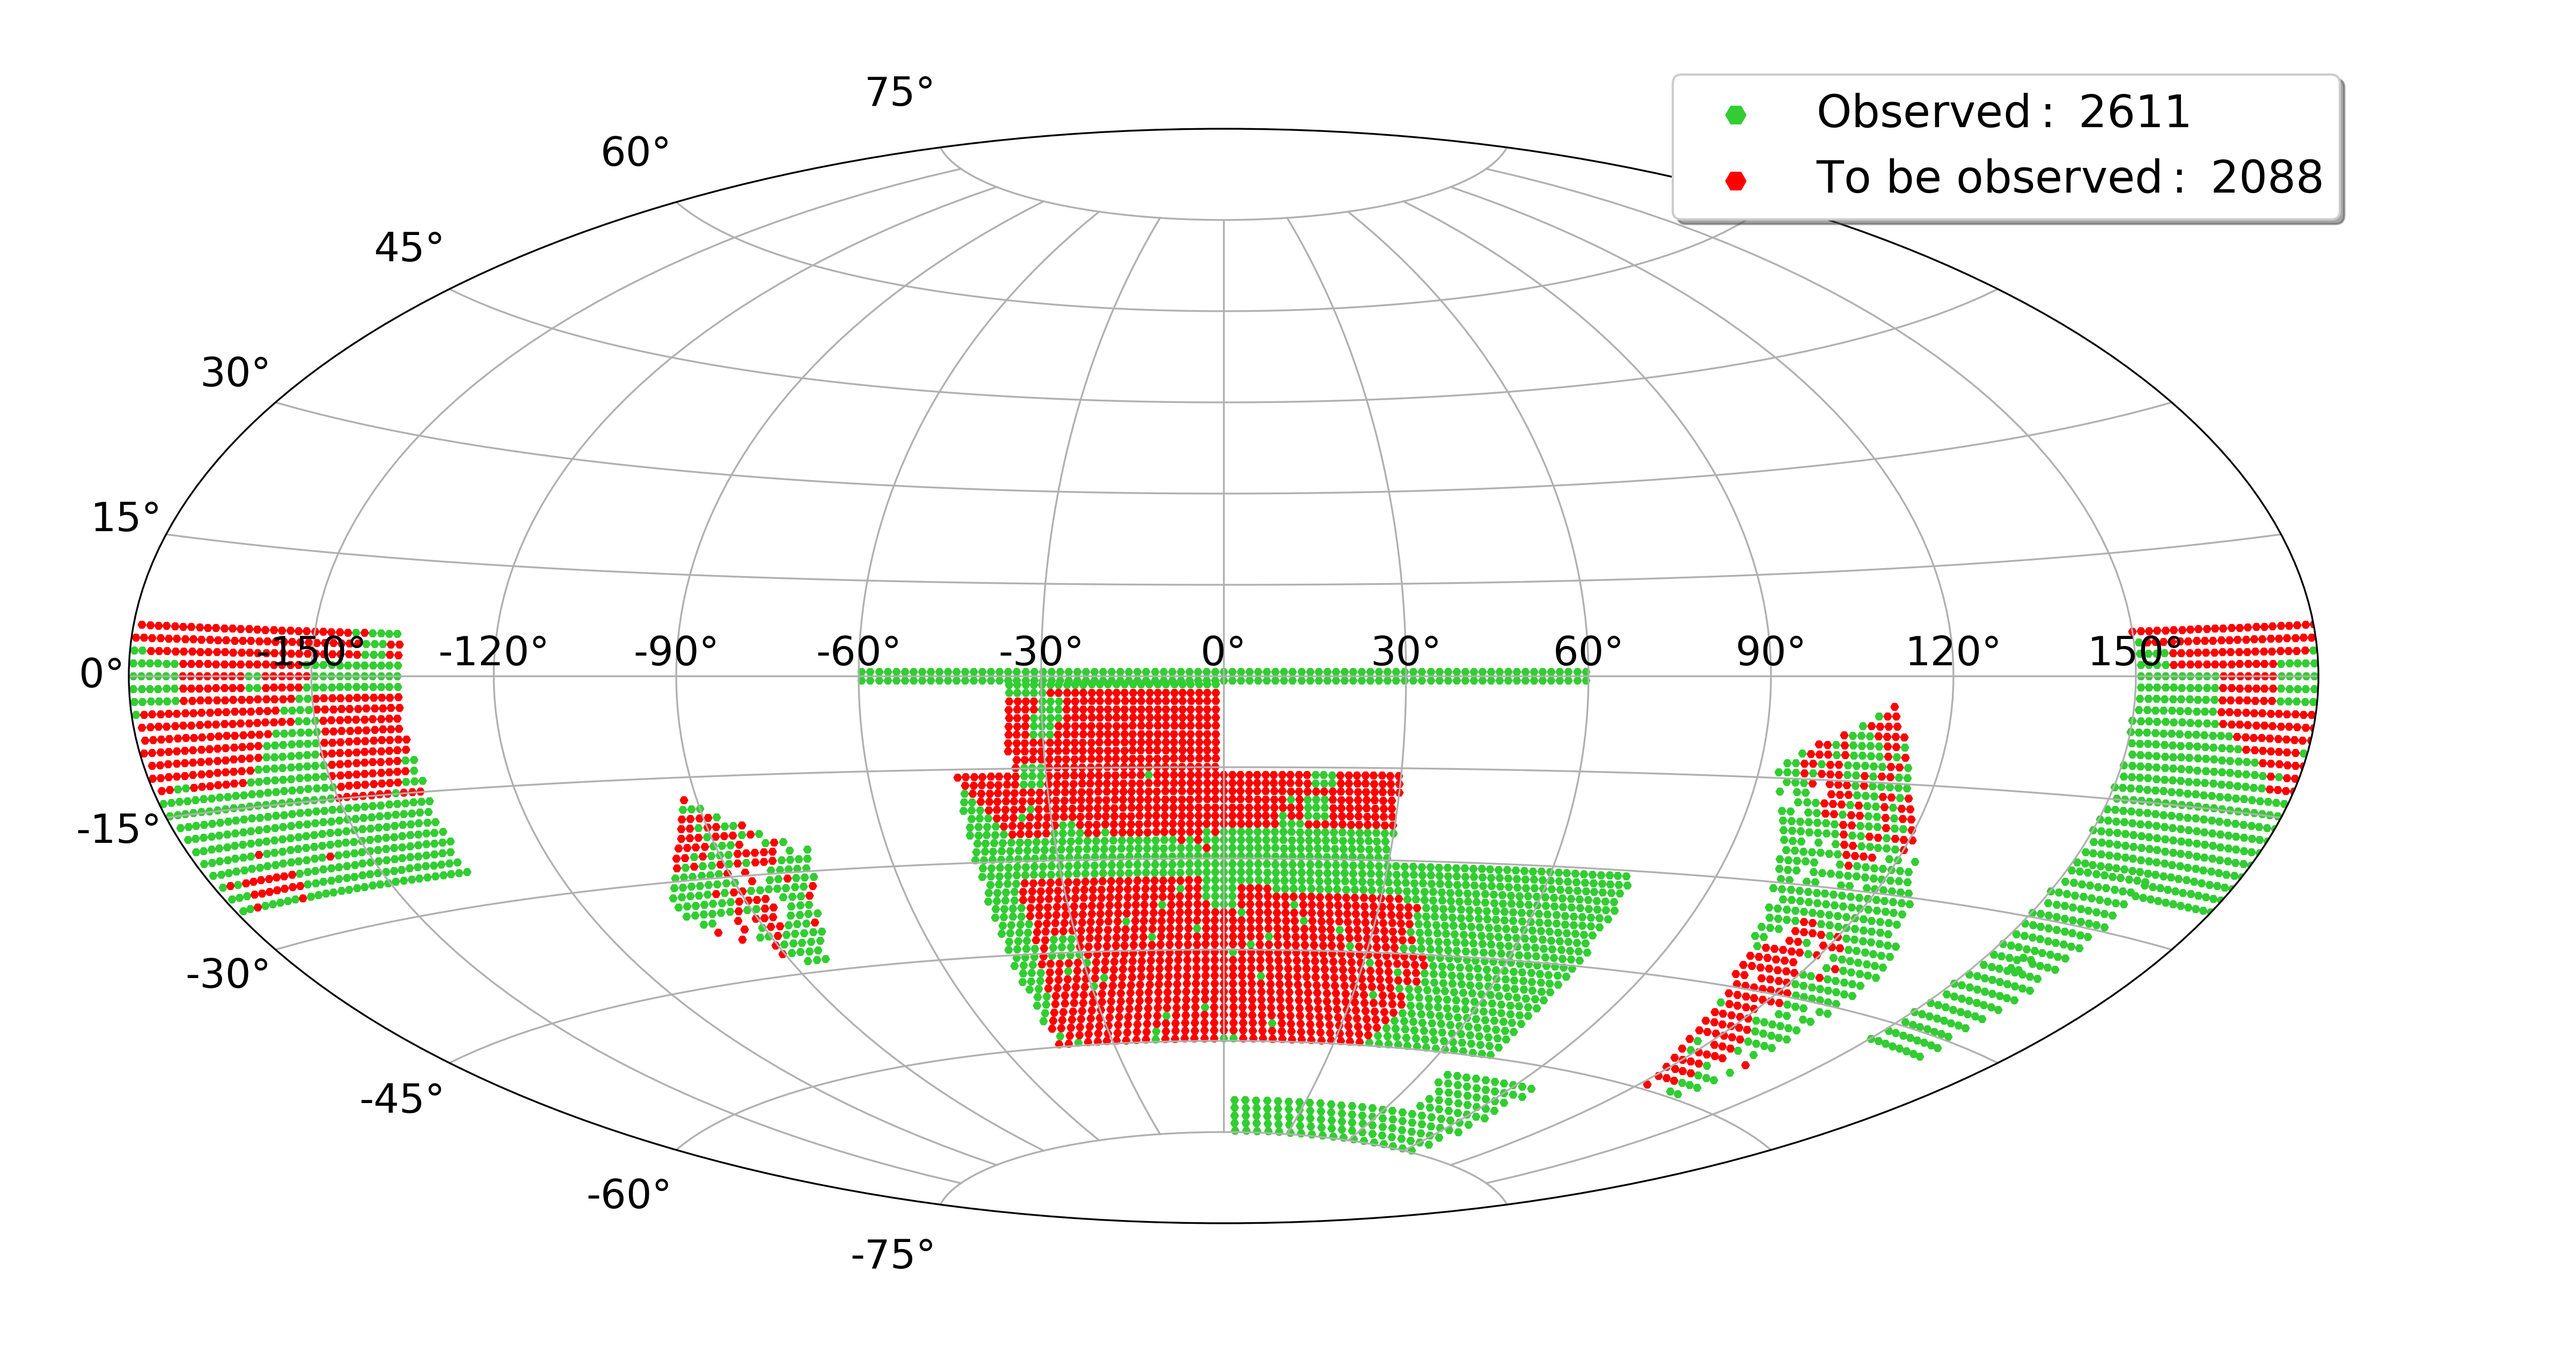
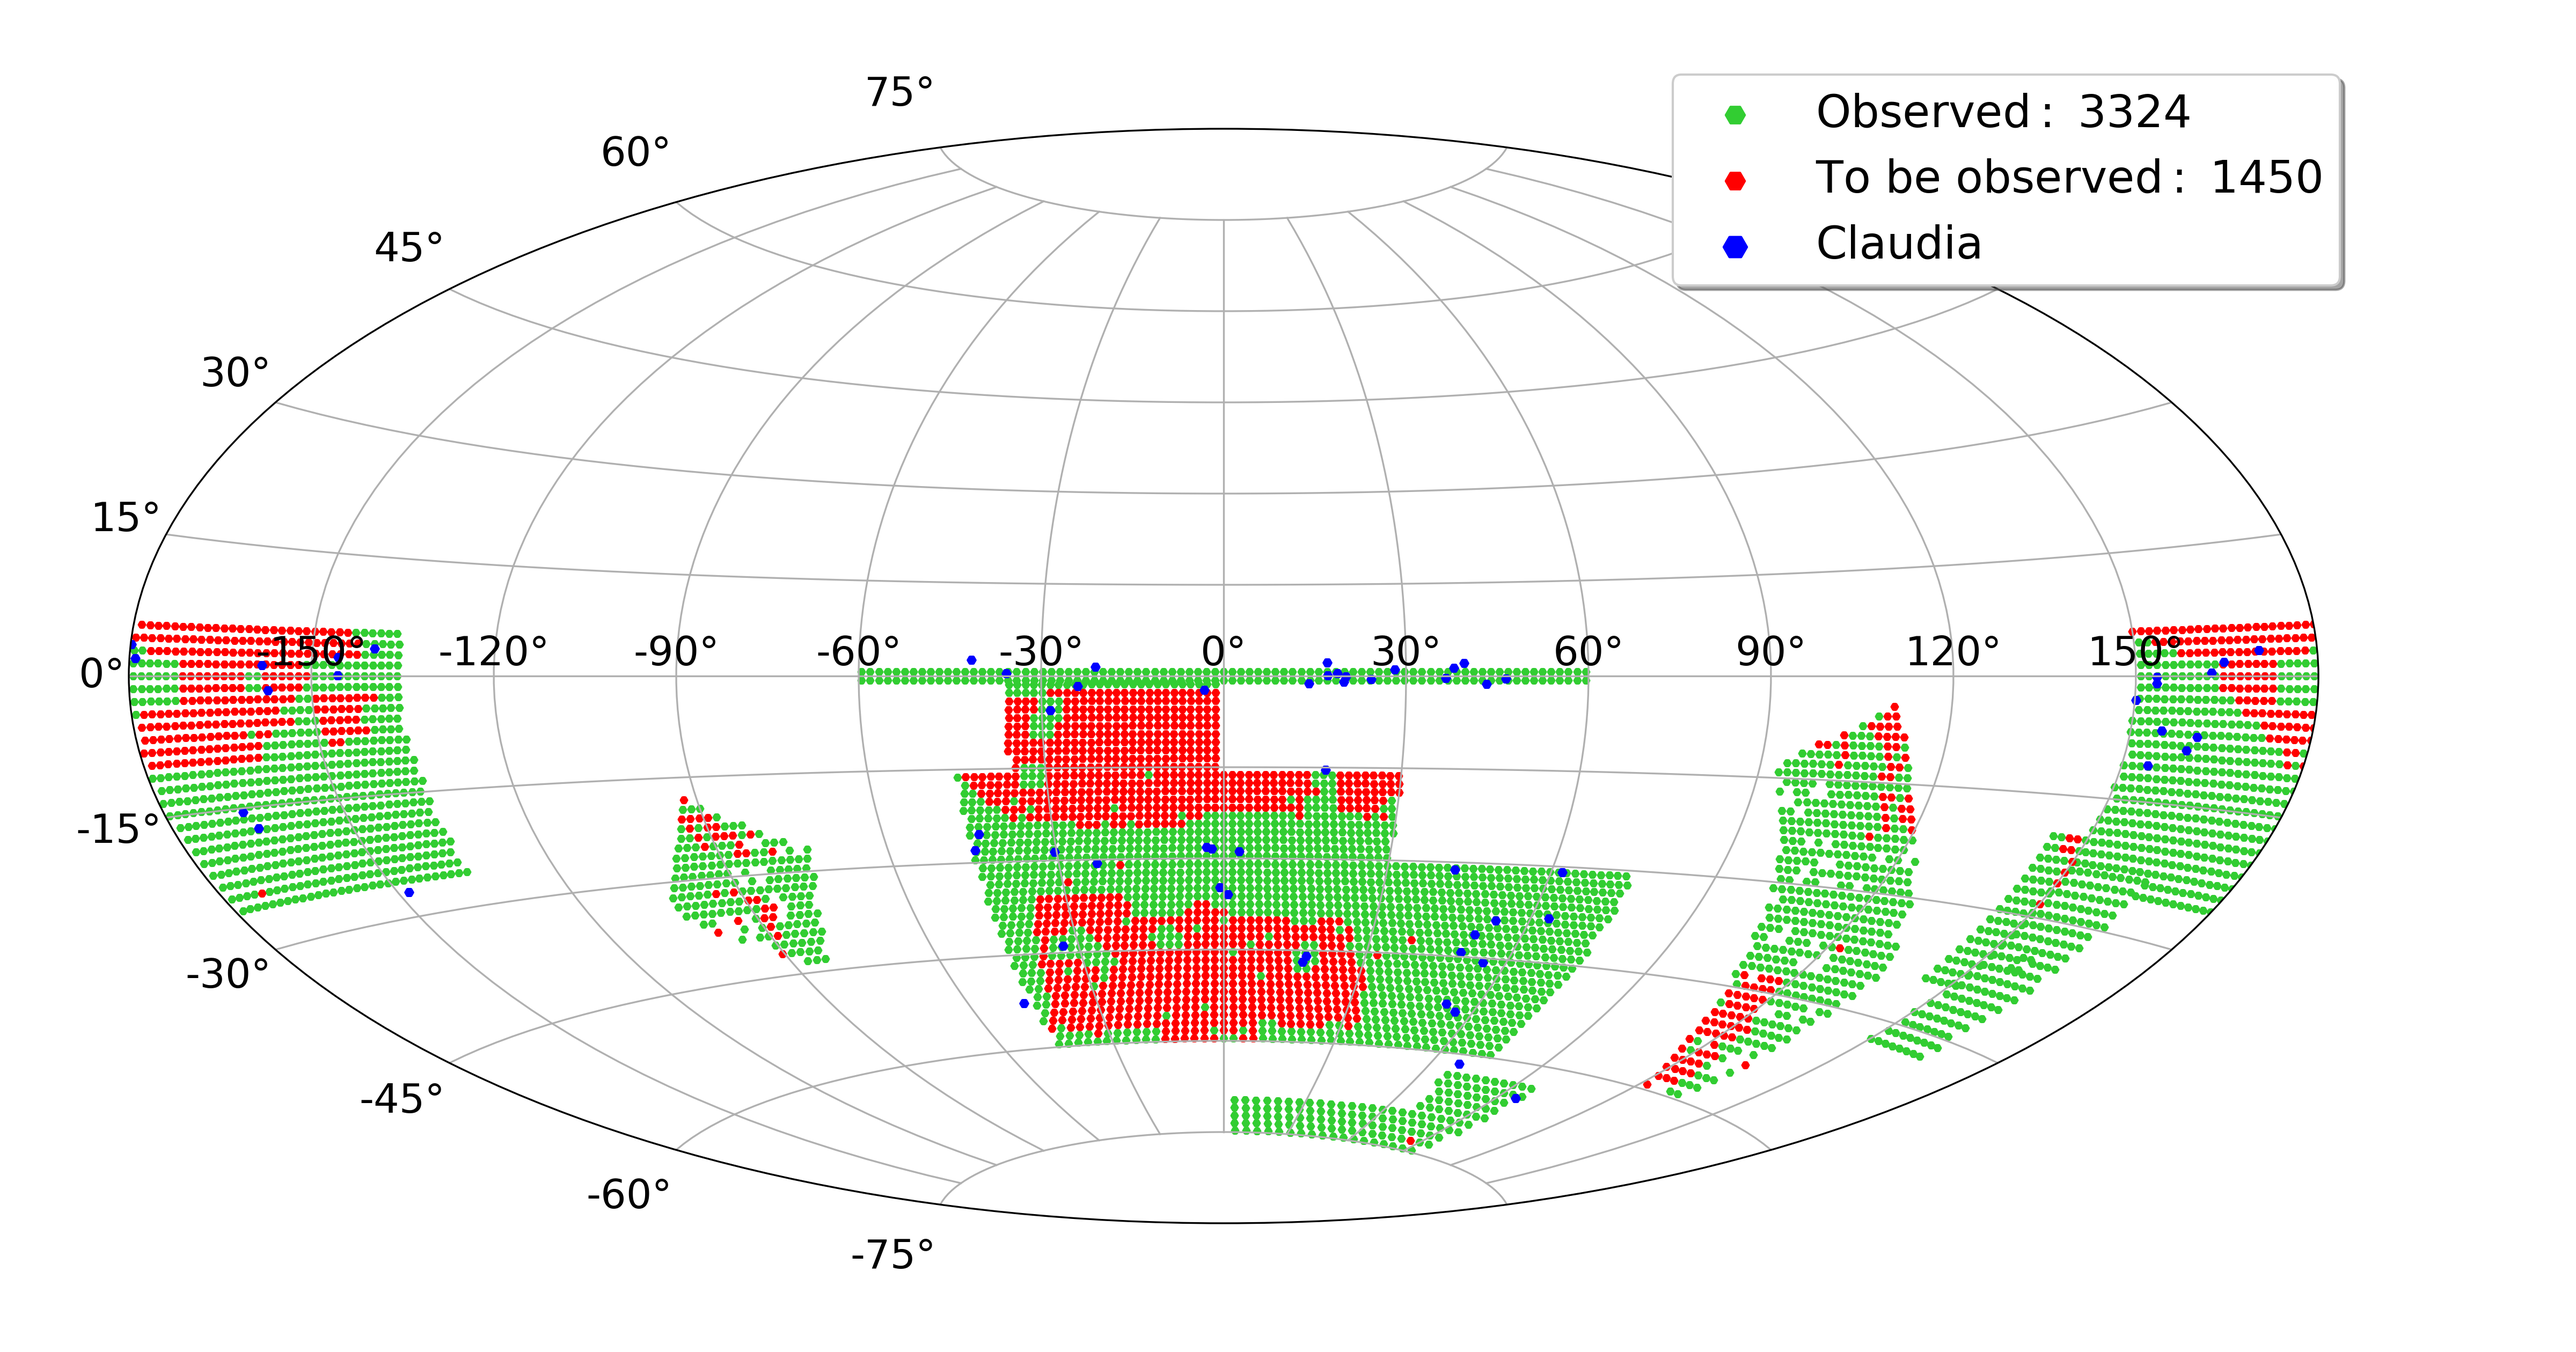
Produce footprint with overlay catalogue

diff --git a/plot-footprint/plot_footprint.py b/plot-footprint/plot_footprint.py
@@ -24,6 +24,7 @@ import numpy as np
 import matplotlib.pyplot as plt
 import argparse
 
+
 def parse_args():
     parser = argparse.ArgumentParser(
         description='Plots the S-PLUS footprint on the sky')
@@ -41,6 +42,7 @@ def parse_args():
         sys.exit(1)
     return parser.parse_args()
 
+
 def plot_foot(args):
     plt.figure(figsize=(16, 8.4))
     ax = plt.subplot(111, projection="aitoff")
@@ -48,7 +50,8 @@ def plot_foot(args):
 
     if args.is2mass:
         if args.twomasscat is None:
-            print('If 2mass allssky catalogue is available, please provide the catalogue name')
+            print(
+                'If 2mass allssky catalogue is available, please provide the catalogue name')
             raise ValueError('Please provide the 2mass allssky catalogue name')
         print('Using 2MASS catalogue %s' % args.twomasscat)
         try:
@@ -56,7 +59,8 @@ def plot_foot(args):
         except (UnicodeDecodeError, OSError):
             cat = ascii.read(args.twomasscat, format='csv')
         else:
-            raise ValueError('Please provide a valid 2mass allssky catalogue on FITS or CSV format')
+            raise ValueError(
+                'Please provide a valid 2mass allssky catalogue on FITS or CSV format')
 
         c0 = SkyCoord(ra=cat['RAJ2000'], dec=cat['DEJ2000'],
                       unit=(u.deg, u.deg), frame='icrs')
@@ -88,6 +92,16 @@ def plot_foot(args):
     ax.scatter(ra_rad[mask_foo], dec_rad[mask_foo],
                marker='H', s=8, color='r', label=lbl)
 
+    # # overlay
+    # ct = ascii.read(
+    #     '/home/herpich/Downloads/info_cls_shiftgap_iter_10.0hmpcf_nrb.dat', format='fast_no_header')
+    # ctc = SkyCoord(ra=ct['col2'], dec=ct['col3'],
+    #                unit=(u.deg, u.deg), frame='icrs')
+    # ra_radc = ctc.ra.wrap_at(180 * u.deg).radian
+    # dec_radc = ctc.dec.radian
+    # ax.scatter(ra_radc, dec_radc, marker='H',
+    #            s=12, color='blue', label='Claudia')
+
     plt.setp(ax.get_xticklabels(), fontsize=18)
     plt.setp(ax.get_yticklabels(), fontsize=18)
     plt.legend(loc='upper right', scatterpoints=1, markerscale=3, shadow=True,
@@ -99,6 +113,7 @@ def plot_foot(args):
     print('Saving fig %s...' % pathtosave)
     plt.savefig(pathtosave, format='png', dpi=300)
     plt.show()
+
 
 if __name__ == '__main__':
     args = parse_args()
